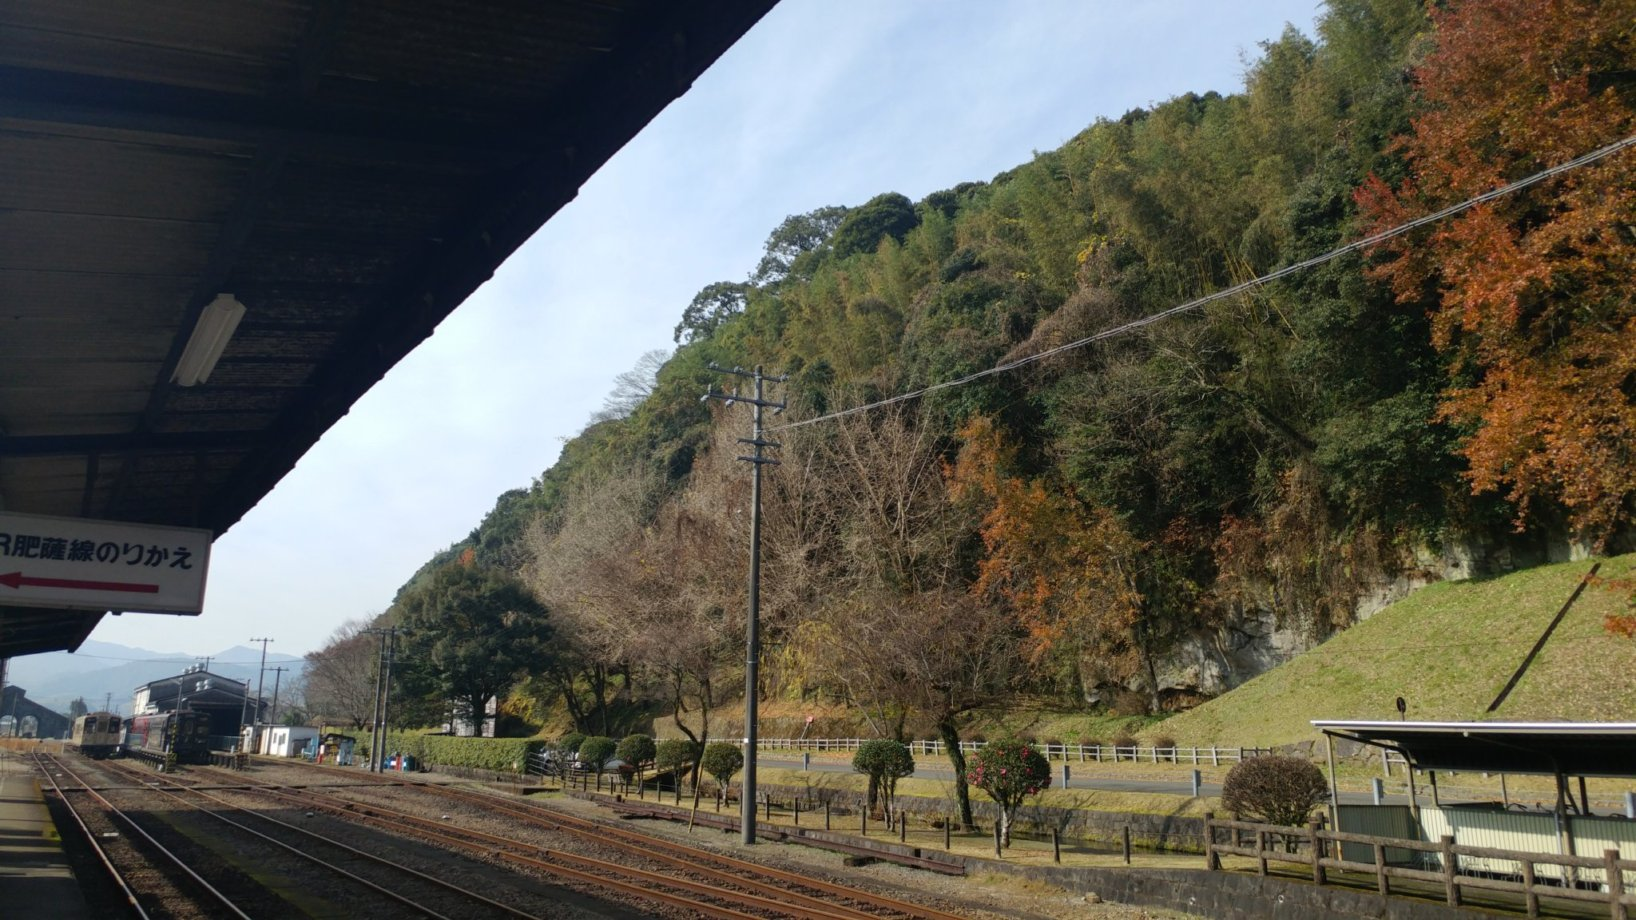
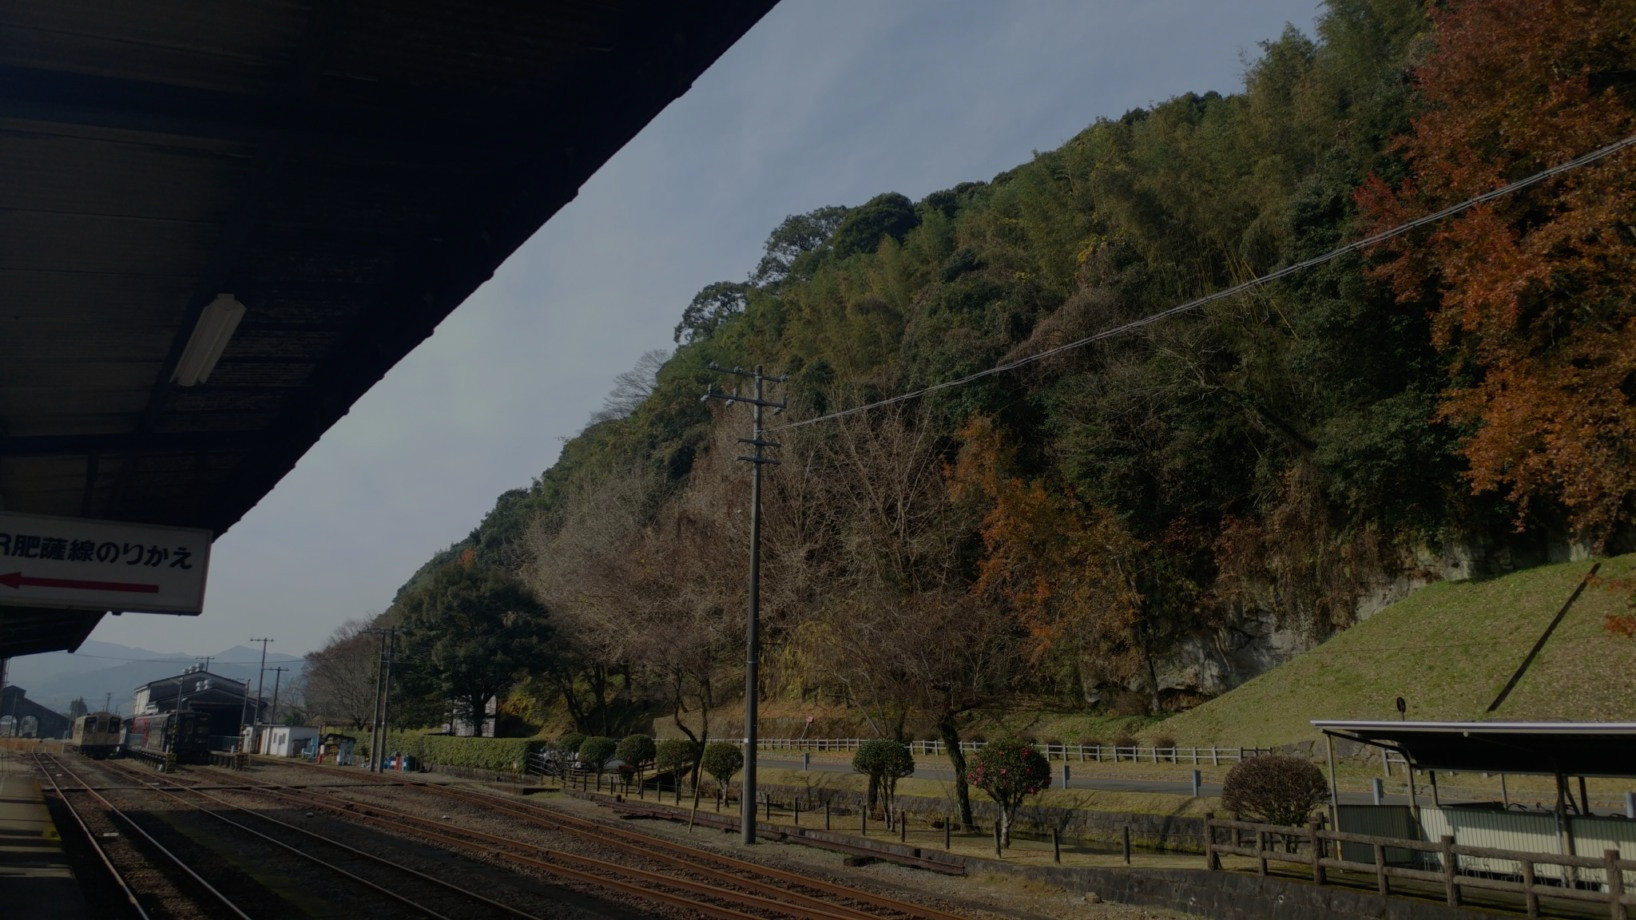
[UPDATE] fixed header black filter & font color

diff --git a/assets/css/style.css b/assets/css/style.css
@@ -507,7 +507,7 @@ header h2 {
   font-size: 26px;
   font-weight: normal;
   line-height: 1.3;
-  color: #9ddcff;
+  color: #ffffff;
   letter-spacing: 0
 }
 
